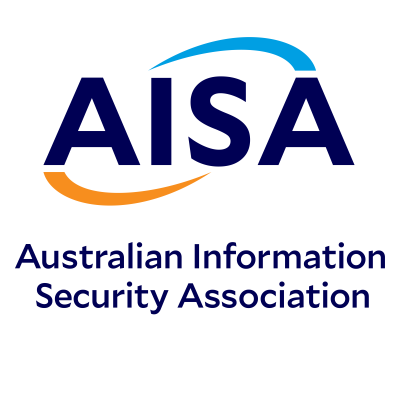
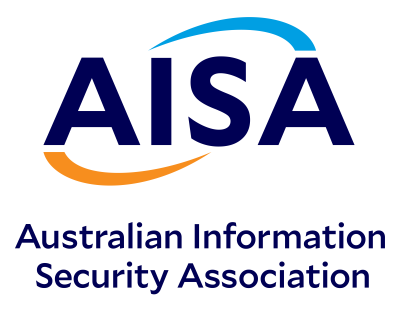
formatting tweaks

diff --git a/sponsors.html b/sponsors.html
@@ -67,166 +67,80 @@
                 </div>
             </header>     
 
-                <div class="container col-xxl-8 px-4 py-3">
-                    <div class="row flex-lg-row-reverse align-items-center g-5 py-5">
-                      <div class="col-lg-12">
-                        <h1 class="display-5 fw-bold lh-1 mb-3">2026 PECAN+ Sponsors</h1>
-                        <p class="lead">PECAN+ would not be possible without the generous support of national and local Sponsors.</p>
-                        <div class="d-grid gap-2 d-md-flex justify-content-md-start">
-                          <a href="sponsorship.html" class="btn btn-primary btn-sm px-4 me-md-2">Find out about sponsorship opportunities</a>
-                        </div>
+			<div class="container col-xxl-8 px-4 py-3">
+				<div class="row flex-lg-row-reverse align-items-center g-5 py-5">
+					<div class="col-lg-12">
+						<h1 class="display-5 fw-bold lh-1 mb-3">2026 PECAN+ Sponsors</h1>
+						<p class="lead">PECAN+ would not be possible without the generous support of national and local Sponsors.</p>
+						<div class="d-grid gap-2 d-md-flex justify-content-md-start mb-4">
+							<a href="sponsorship.html" class="btn btn-primary btn-sm px-4 me-md-2">Find out about sponsorship opportunities</a>
+						</div>
 				
-					<h2 class="text-center fw-bold lh-1 mb-4">Platinum Sponsor</h2>
-				
-				<div class="container col-xxl-8 px-4">
-					<div class="row flex-lg-row align-items-center g-5 py-2 mb-4 justify-content-center">
-						<div class="col-10">
-							<a href="https://www.asd.gov.au/"><img src="images/ASD.png" class="d-block mx-lg-auto img-fluid mb-3" alt="Australian Signals Directorate" width="500" height="108" loading="lazy"></a>
+						<h2 class="text-center fw-bold lh-1 mb-4">Platinum Sponsor</h2>
+						
+						<div class="container col-xxl-8 px-4">
+							<div class="row flex-lg-row align-items-center g-5 py-2 mb-4 justify-content-center">
+								<div class="col-10">
+									<a href="https://www.asd.gov.au/"><img src="images/ASD.png" class="d-block mx-lg-auto img-fluid mb-3" alt="Australian Signals Directorate" width="500" height="108" loading="lazy"></a>
+								</div>
+							</div>
+							<hr class="border border-secondary border-3">
 						</div>
-					<hr class="border border-secondary border-3">
-				</div>
 
-				<h2 class="text-center fw-bold lh-1 mb-4">Gold Sponsors</h2>
+						<h2 class="text-center fw-bold lh-1 mb-4">Gold Sponsors</h2>
 
-				<div class="container col-xxl-8 px-4">
-					<div class="row flex-lg-row align-items-center g-5 py-2 justify-content-center">
-						<div class="col-5">
-							<a href="https://www.aisa.org.au/"><img src="images/AISA.png" class="d-block mx-lg-auto img-fluid mb-3" alt="AISA" width="250" height="250" loading="lazy"></a>
+						<div class="container col-xxl-8 px-4">
+							<div class="row flex-lg-row align-items-center g-5 py-2 justify-content-center">
+								<div class="col-5">
+									<a href="https://www.aisa.org.au/"><img src="images/AISA.png" class="d-block mx-lg-auto img-fluid" alt="AISA" width="250" height="194" loading="lazy"></a>
+								</div>
+							</div>
 						</div>
+
+						<div class="container col-xxl-8 px-4">
+							<div class="row flex-lg-row align-items-center g-5 py-2 mb-4 justify-content-center">
+								<div class="col-8">
+									<a href="https://www.triskelelabs.com/"><img src="images/TriskeleLabs.png" class="d-block mx-lg-auto img-fluid" alt="Triskele Labs" width="500" height="121" loading="lazy"></a>
+								</div>
+							</div>
+							<hr class="border border-secondary border-3">
+						</div>
+
+						<h2 class="text-center fw-bold lh-1 mb-4 mt-5">Silver Sponsors</h2>
+
+						<div class="container col-xxl-8 px-4">
+							<div class="row flex-lg-row align-items-center g-5 py-2 mb-4 justify-content-center">
+								<div class="col-8">
+									<a href="https://www.wa.gov.au/organisation/department-of-the-premier-and-cabinet/office-of-digital-government"><img src="images/dgov.png" class="d-block mx-lg-auto img-fluid" alt="Department of the Premier and Cabinet" width="400" height="82" loading="lazy"></a>
+								</div>
+							</div>
+							<hr class="border border-secondary border-3">
+						</div>
+
+						<h2 class="text-center fw-bold lh-1 mb-4 mt-5">Platform Sponsor</h2>
+
+						<div class="container col-xxl-8 px-4">
+							<div class="row flex-lg-row align-items-center g-5 py-2 mb-4 justify-content-center">
+								<div class="col-8">
+									<a href="https://www.kasmweb.com/"><img src="images/Kasm_Workspaces.png" class="d-block mx-lg-auto img-fluid" alt="Kasm Technologies" width="400" height="121" loading="lazy"></a>
+								</div>
+							</div>
+							<hr class="border border-secondary border-3">
+						</div>		
+
+						<h2 class="text-center fw-bold lh-1 mb-4 mt-5">Prize Sponsor</h2>
+
+						<div class="container col-xxl-8 px-4">
+							<div class="row flex-lg-row align-items-center g-5 py-2 mb-4 justify-content-center">
+								<div class="col-6">
+									<a href="https://cybercx.com.au/"><img src="images/CyberCX.png" class="d-block mx-lg-auto img-fluid" alt="CyberCX" width="400" height="121" loading="lazy"></a>
+								</div>
+							</div>
+						</div>
+						
 					</div>
 				</div>
-
-				<div class="container col-xxl-9 px-4">
-					<div class="row flex-lg-row align-items-center g-5 py-2 justify-content-center">
-						<div class="col-5">
-							<a href="https://www.triskelelabs.com/"><img src="images/TriskeleLabs.png" class="d-block mx-lg-auto img-fluid mb-3" alt="Triskele Labs" width="500" height="121" loading="lazy"></a>
-						</div>
-					</div>
-					<hr class="border border-secondary border-3">
-				</div>
-
-				<h2 class="text-center fw-bold lh-1 mb-4 mt-5">Silver Sponsors</h2>
-
-				<div class="container col-xxl-8 px-4">
-					<div class="row flex-lg-row align-items-center g-5 py-2 mb-4 justify-content-center">
-						<div class="col-10 col-sm-10 col-lg-5">
-							<a href="https://www.wa.gov.au/organisation/department-of-the-premier-and-cabinet/office-of-digital-government"><img src="images/dgov.png" class="d-block mx-lg-auto img-fluid" alt="Department of the Premier and Cabinet" width="400" height="82" loading="lazy"></a>
-						</div>
-					</div>
-			
-					<hr class="border border-secondary border-3">
-				</div>
-
-
-				<h2 class="text-center fw-bold lh-1 mb-4 mt-5">Platform Sponsor</h2>
-
-				<div class="container col-xxl-8 px-4">
-					<div class="row flex-lg-row align-items-center g-5 py-2 mb-4 justify-content-center">
-						<div class="col-3">
-							<a href="https://www.kasmweb.com/"><img src="images/Kasm_Workspaces.png" class="d-block mx-lg-auto img-fluid" alt="Kasm Technologies" width="400" height="121" loading="lazy"></a>
-						</div>
-					</div>
-				</div>		
-
-					<hr class="border border-secondary border-3">
-				</div>
-
-				<h2 class="text-center fw-bold lh-1 mb-4 mt-5">Prize Sponsor</h2>
-
-				<div class="container col-xxl-8 px-4">
-					<div class="row flex-lg-row align-items-center g-5 py-2 mb-4 justify-content-center">
-						<div class="col-3">
-							<a href="https://cybercx.com.au/"><img src="images/CyberCX.png" class="d-block mx-lg-auto img-fluid" alt="CyberCX" width="400" height="121" loading="lazy"></a>
-						</div>
-					</div>
-				</div>
-					
-
-				<!--<h2 class="text-center fw-bold lh-1 mb-4">Platinum Sponsor</h2>-->
-				
-				<!--<div class="container col-xxl-8 px-4">
-					<div class="row flex-lg-row align-items-center g-5 py-2 mb-4 justify-content-center">
-						<div class="col-10">
-							<a href="https://www.asd.gov.au/"><img src="images/ASD.png" class="d-block mx-lg-auto img-fluid mb-3" alt="Australian Signals Directorate" width="500" height="108" loading="lazy"></a>
-						</div>
-					</div>
-					<div class="row flex-lg-row align-items-center g-5 py-2 mb-4 justify-content-center">
-						<div class="col-10">
-							<a href="https://www.yirayarkiny.com.au"><img src="images/YiraYarkiny.png" class="d-block mx-lg-auto img-fluid mb-3" alt="Yira Yarkiny" width="226" height="180" loading="lazy"></a>
-						</div>
-					</div>
-					<hr class="border border-secondary border-3">
-				</div>-->
-
-
-
-				<!--<h2 class="text-center fw-bold lh-1 mb-4">Gold Sponsors</h2>-->
-
-				<!--<div class="container col-xxl-8 px-4">
-					<div class="row flex-lg-row align-items-center g-5 py-2 justify-content-center">
-						<div class="col-5">
-							<a href="https://www.aisa.org.au/"><img src="images/AISA.png" class="d-block mx-lg-auto img-fluid mb-3" alt="AISA" width="250" height="250" loading="lazy"></a>
-						</div>
-					</div>
-				</div>-->
-
-				<!--<div class="container col-xxl-8 px-4">
-					<div class="row flex-lg-row align-items-center g-5 py-2 mb-4 justify-content-center">
-						<div class="col-5">
-							<a href="https://www.cyberwesthub.au/"><img src="images/CyberWestHub.jpg" class="d-block mx-lg-auto img-fluid mb-3" alt="CyberWest Hub" width="280" height="185" loading="lazy"></a>
-						</div>
-					</div>
-				</div>-->
-
-				<!--<div class="container col-xxl-9 px-4">
-					<div class="row flex-lg-row align-items-center g-5 py-2 justify-content-center">
-						<div class="col-5">
-							<a href="https://www.triskelelabs.com/"><img src="images/TriskeleLabs.png" class="d-block mx-lg-auto img-fluid mb-3" alt="Triskele Labs" width="500" height="121" loading="lazy"></a>
-						</div>
-					</div>
-					<hr class="border border-secondary border-3">
-				</div>-->
-
-
-
-				<!--<h2 class="text-center fw-bold lh-1 mb-4 mt-5">Silver Sponsors</h2>-->
-
-				<!--<div class="container col-xxl-8 px-4">
-					<div class="row flex-lg-row align-items-center g-5 py-2 mb-4 justify-content-center">
-						<div class="col-10 col-sm-10 col-lg-5">
-							<a href="https://www.wa.gov.au/organisation/department-of-the-premier-and-cabinet/office-of-digital-government"><img src="images/dgov.png" class="d-block mx-lg-auto img-fluid" alt="Department of the Premier and Cabinet" width="400" height="82" loading="lazy"></a>
-						</div>
-					</div>
-					<div class="row flex-lg-row align-items-center g-5 py-2 mb-4 justify-content-center">
-						<div class="col-10 col-sm-10 col-lg-5">
-							<a href="https://mantelgroup.com.au/"><img src="images/MantelGroup.png" class="d-block mx-lg-auto img-fluid" alt="Mantel Group" width="400" height="85" loading="lazy"></a>
-						</div>
-					</div>
-					<div class="row flex-lg-row align-items-center g-5 py-2 mb-4 justify-content-center">
-						<div class="col-10 col-sm-10 col-lg-5">
-							<a href="https://www.proactivelabs.com.au/"><img src="images/ProactiveLabs.jpg" class="d-block mx-lg-auto img-fluid" alt="Proactive Labs" width="400" height="187" loading="lazy"></a>
-						</div>
-					</div>
-					<div class="row flex-lg-row align-items-center g-5 py-2 mb-4 justify-content-center">
-						<div class="col-10 col-sm-10 col-lg-5">
-							<a href="https://www.trustwave.com/"><img src="images/Trustwave.png" class="d-block mx-lg-auto img-fluid" alt="Seamless Intelligence" width="400" height="58" loading="lazy"></a>
-						</div>
-					</div>
-					<hr class="border border-secondary border-3">
-				</div>-->
-
-
-				<!--<h2 class="text-center fw-bold lh-1 mb-4 mt-5">Platform Sponsor</h2>
-
-				<div class="container col-xxl-8 px-4">
-					<div class="row flex-lg-row align-items-center g-5 py-2 mb-4 justify-content-center">
-						<div class="col-4">
-							<a href="https://www.kasmweb.com/"><img src="images/Kasm_Workspaces.png" class="d-block mx-lg-auto img-fluid" alt="Kasm Technologies" width="400" height="121" loading="lazy"></a>
-						</div>
-					</div>
-				</div>-->
-
-
+			</div>
         </main>
 
         <div class="container">
